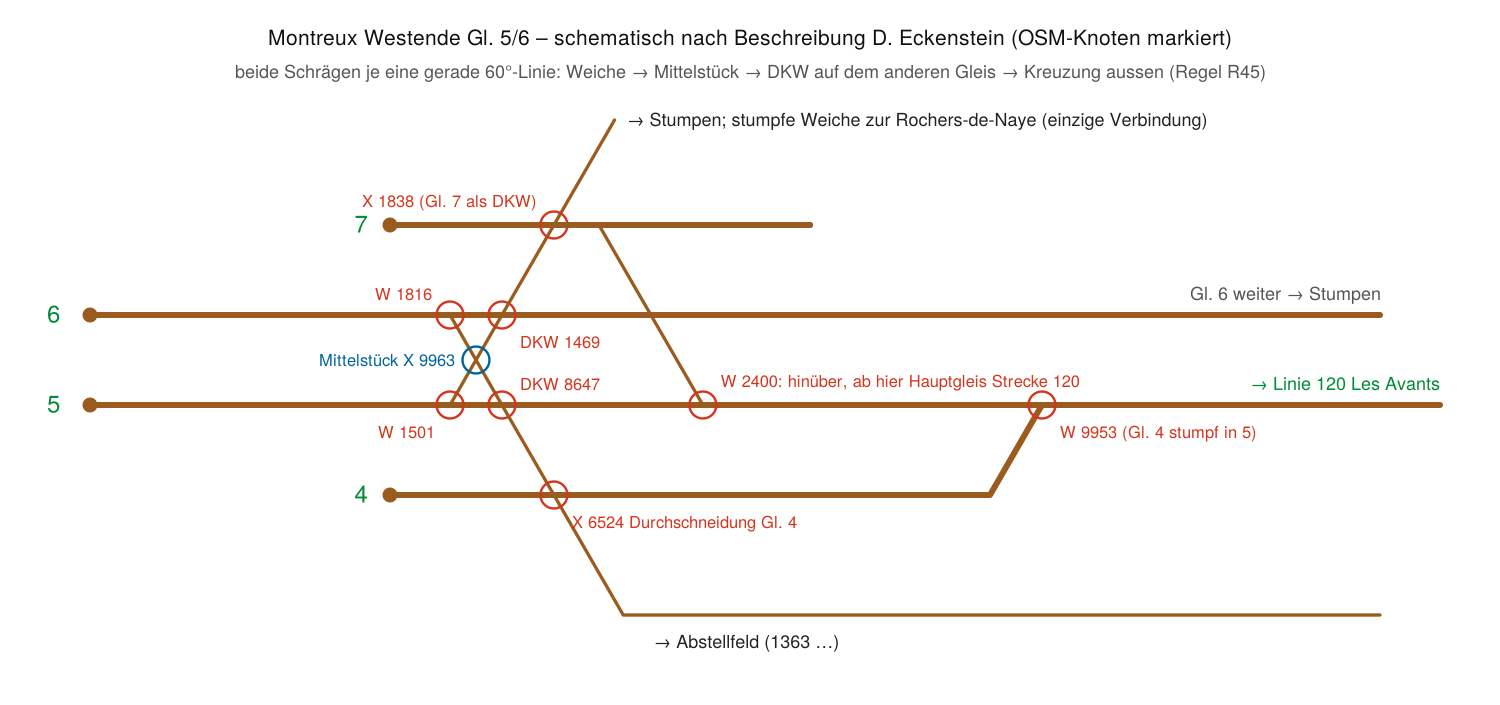
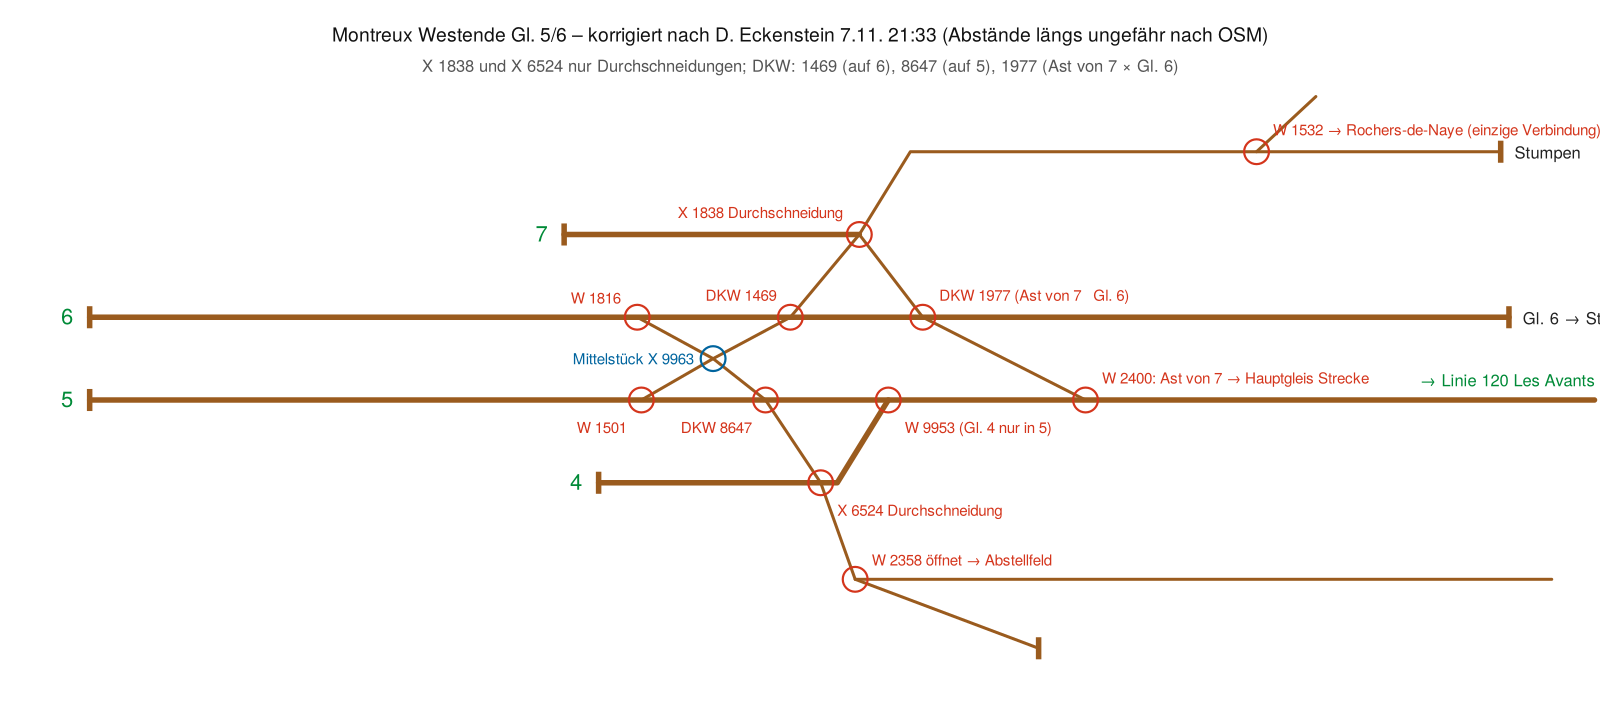
Übergabe: Westende korrigiert (1838/6524 nur Durchschneidungen, DKW 1977 Ast von 7 × Gl. 6)
Claude-Session: https://claude.ai/code/session_01QgsCCi2PCMfqHtTS5gQcbN

diff --git a/spurplan/UEBERGABE.md b/spurplan/UEBERGABE.md
@@ -340,3 +340,16 @@ und hakt den Schritt in der Statusliste ab. Ist «Daniel danach» nicht leer, wa
   Knoten – die Mittags-Erkennung verlangte genau 2) und X 1838 als DKW (Gl. 7) bzw. Kreuzung behandeln. Die Ebenen 5/6
   dürfen durch die DKW nicht verspringen (Gl. 5 und 6 sind die durchgehenden Gleise, die Schrägen kreuzen sie).
 - Daniel: Skizze bestätigen; dann Umsetzung im neuen Chat «Weiter mit UEBERGABE.md – Schritt E: DKW-Automatik».
+
+### 7.11.2026 21:33 – Korrektur Daniel zum Westende (OSM bestätigt)
+- **X 1126121838 ist nur eine Durchschneidung**: Gl. 7 (274706713) endet dort und läuft ohne Weiche als 1112528289 weiter
+  (der «Ast von 7»), 97211375 (Ast aus der DKW auf 6) kreuzt nur. Rechts von 1838 ist keine Weiche.
+- Der Ast von 7 bildet mit dem Gleis von 6 die **DKW X 1126121977** (Bögen 963685763: 8914081510→8914081511 und
+  963685764: 8914081514→8914081515; Gl. 6 = 97211358 endet dort, läuft als 97211362 weiter zum Stumpen 2052) und geht dann
+  stumpf in die Strecke (W 1126122400 auf 677497302/«6932»).
+- 97211375 nach 1838: W 1126121532 (274706714, einzige Verbindung zur Rochers-de-Naye), dann Stumpen (Prellbock 1126122414).
+- **X 8914106524 ist nur eine Durchschneidung** mit Gl. 4; im Ast von 5 (97211377) öffnet danach W 1126122358 ins
+  Abstellfeld (97211363). **Gl. 4 geht nur in Gl. 5** (W 2793859953).
+- DKW für die Automatik also: 1126121469 (auf 6), 207308647 (auf 5), 1126121977 (Ast von 7 × Gl. 6). Bei 1977 und 8647 läuft
+  ein Gleis am Knoten als neuer Way weiter (Ende/Anfang) – die Erkennung muss das als durchgehend behandeln.
+  Skizze korrigiert: `spurplan/vergleich/montreux_westende_skizze.png`.
